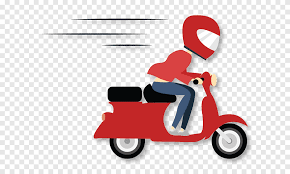
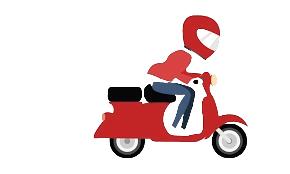
fix img thanks

diff --git a/src/components/pages/ThanksPage.vue b/src/components/pages/ThanksPage.vue
@@ -13,7 +13,7 @@ export default {
     <div class="container h-100">
       <div class="row flex-column-reverse gy-3 align-items-center flex-lg-row">
         <div class="col-6 left-content">
-          <img src="../../../public/img/delivery/delivery-thanks.png" alt="" />
+          <img src="../../../public/img/delivery/delivery-man.png" alt="" />
         </div>
         <div class="col-6 right-content px-4">
           <h1 class="text-center mt-3">{{ title }}</h1>
